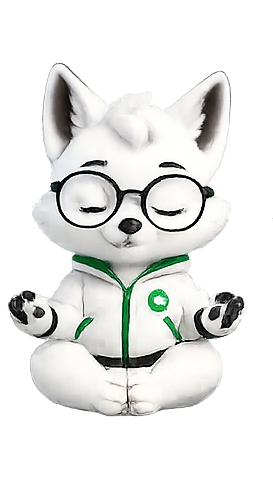
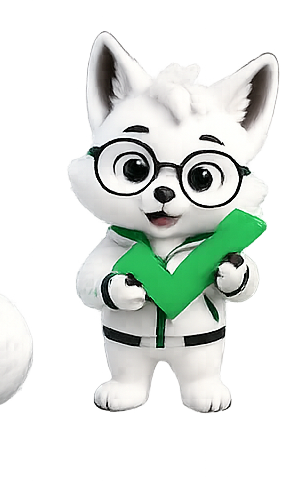
fix(front): correct Viz pose-to-image mapping
- Renamed: curious→checkmark (holds green ✅), checkmark→meditating (eyes closed),
  meditating→error (back view fox)
- Added VIZ_MESSAGES central map for all pose messages
- EmptyState: sitting pose for no results (sad fox)
- ErrorState: error pose (back view) for connection failures
- LoadingSpinner/SearchPage use VIZ_MESSAGES constants

diff --git a/front/src/components/Common/Viz.tsx b/front/src/components/Common/Viz.tsx
@@ -2,16 +2,16 @@ import { Box, Image } from '@chakra-ui/react';
 import { keyframes } from '@emotion/react';
 
 export type VizPose =
-  | 'greeting'    // Saludo — inicio de sesión
-  | 'thinking'    // Pensando — comparando empresas
-  | 'laptop'      // Con laptop — recomendación IA
-  | 'searching'   // Buscando — lupa
-  | 'celebrating' // Celebrando — registro exitoso
-  | 'waving'      // Saludando — bienvenida
-  | 'sitting'     // Sentado — sin proyectos
-  | 'curious'     // Curioso — sin resultados
-  | 'checkmark'   // Check — proceso completado
-  | 'meditating'; // Meditando — carga
+  | 'greeting'    // 🦊 Inicio de sesión — saluda con la pata
+  | 'celebrating' // 🎉 Registro exitoso — salta de alegría
+  | 'searching'   // 🔍 Buscando — lupa y guiño
+  | 'laptop'      // 💻 Laptop/tablet — analiza documentos
+  | 'thinking'    // 🤔 Comparando — dedo en el mentón
+  | 'sitting'     // 😕 Sin resultados / sin proyectos — sentado triste
+  | 'waving'      // 👋 Saludando / señalando
+  | 'checkmark'   // ✅ Proceso completado — sostiene check verde
+  | 'meditating'  // 🧘 Carga general — ojos cerrados, meditando
+  | 'error';      // 😅 Error de conexión — de espaldas
 
 const float = keyframes`
   0%, 100% { transform: translateY(0px) }
@@ -31,15 +31,15 @@ const wiggle = keyframes`
 
 const POSE_ANIMATION: Record<VizPose, string> = {
   greeting:    `${wiggle} 2s ease-in-out infinite`,
-  thinking:    `${pulse} 3s ease-in-out infinite`,
-  laptop:      `${float} 3s ease-in-out infinite`,
-  searching:   `${wiggle} 1.5s ease-in-out infinite`,
   celebrating: `${wiggle} 0.8s ease-in-out infinite`,
-  waving:      `${wiggle} 2s ease-in-out infinite`,
+  searching:   `${wiggle} 1.5s ease-in-out infinite`,
+  laptop:      `${float} 3s ease-in-out infinite`,
+  thinking:    `${pulse} 3s ease-in-out infinite`,
   sitting:     `${float} 4s ease-in-out infinite`,
-  curious:     `${pulse} 2.5s ease-in-out infinite`,
+  waving:      `${wiggle} 2s ease-in-out infinite`,
   checkmark:   `${pulse} 2s ease-in-out infinite`,
   meditating:  `${float} 3.5s ease-in-out infinite`,
+  error:       `${float} 4s ease-in-out infinite`,
 };
 
 interface VizProps {

diff --git a/front/src/components/Common/vizMessages.ts b/front/src/components/Common/vizMessages.ts
@@ -1,0 +1,14 @@
+import { VizPose } from './Viz';
+
+export const VIZ_MESSAGES: Record<VizPose, string> = {
+  greeting:    '¡Qué gusto verte de nuevo!',
+  celebrating: '¡Bienvenido! Ya eres parte de ContrataIA.',
+  searching:   'Buscando la mejor información para ti...',
+  laptop:      'Preparando una recomendación inteligente para tu proyecto...',
+  thinking:    'Comparando fortalezas, riesgos y oportunidades...',
+  sitting:     'No encontré coincidencias. Probemos otra búsqueda.',
+  waving:      'Tu primer proyecto comienza aquí.',
+  checkmark:   '¡Listo! Todo salió perfectamente.',
+  meditating:  'Las mejores decisiones toman unos segundos más.',
+  error:       'Parece que perdí la conexión. Intentémoslo de nuevo.',
+};

diff --git a/front/src/components/Common/ErrorState.tsx b/front/src/components/Common/ErrorState.tsx
@@ -1,5 +1,6 @@
 import { Box, Button, Text, VStack } from '@chakra-ui/react';
 import Viz from './Viz';
+import { VIZ_MESSAGES } from './vizMessages';
 
 interface Props {
   message?: string;
@@ -7,13 +8,13 @@ interface Props {
 }
 
 export default function ErrorState({
-  message = 'Parece que perdí la conexión por un momento. Intentémoslo de nuevo.',
+  message = VIZ_MESSAGES.error,
   onRetry,
 }: Props) {
   return (
     <Box textAlign="center" py={12} px={8} bg="white" borderRadius="lg" borderWidth="1px" borderColor="red.50">
       <VStack spacing={3}>
-        <Viz pose="waving" size={100} />
+        <Viz pose="error" size={100} />
         <Text fontWeight="600" color="gray.700" fontSize="lg">Error de conexión</Text>
         <Text color="gray.500" fontSize="sm" maxW="340px" fontStyle="italic">{message}</Text>
         {onRetry && (

diff --git a/front/src/pages/public/ObrasBusqueda.tsx b/front/src/pages/public/ObrasBusqueda.tsx
@@ -13,6 +13,7 @@ import SkeletonCard from '@/components/Common/SkeletonCard';
 import EmptyState from '@/components/Common/EmptyState';
 import ErrorState from '@/components/Common/ErrorState';
 import VizMessage from '@/components/Common/VizMessage';
+import { VIZ_MESSAGES } from '@/components/Common/vizMessages';
 import { useObras } from '@/components/hooks/useObras';
 import { DISTRICTS, RUBROS, OBRA_STATUS } from '@/utils/constants';
 import { formatCurrency } from '@/utils/helpers';
@@ -99,7 +100,7 @@ export default function ObrasBusqueda() {
 
             {isLoading && (
               <Flex direction="column" align="center" py={8}>
-                <VizMessage pose="searching" message="Buscando la mejor información para ti..." size={100} />
+                <VizMessage pose="searching" message={VIZ_MESSAGES.searching} size={100} />
               </Flex>
             )}
 
@@ -111,7 +112,7 @@ export default function ObrasBusqueda() {
               <EmptyState
                 title="No encontré coincidencias"
                 description="Probemos otra búsqueda o cambia los filtros."
-                vizPose="curious"
+                vizPose="sitting"
               />
             )}
 

diff --git a/front/src/components/Common/LoadingSpinner.tsx b/front/src/components/Common/LoadingSpinner.tsx
@@ -1,12 +1,13 @@
 import { Flex } from '@chakra-ui/react';
 import VizMessage from './VizMessage';
+import { VIZ_MESSAGES } from './vizMessages';
 
 interface Props {
   label?: string;
   fullScreen?: boolean;
 }
 
-export default function LoadingSpinner({ label = 'Las mejores decisiones toman unos segundos más.', fullScreen }: Props) {
+export default function LoadingSpinner({ label = VIZ_MESSAGES.meditating, fullScreen }: Props) {
   return (
     <Flex
       direction="column"

diff --git a/front/src/components/Common/EmptyState.tsx b/front/src/components/Common/EmptyState.tsx
@@ -11,7 +11,7 @@ interface Props {
   vizPose?: VizPose;
 }
 
-export default function EmptyState({ title, description, ctaLabel, onCta, vizPose = 'curious' }: Props) {
+export default function EmptyState({ title, description, ctaLabel, onCta, vizPose = 'sitting' }: Props) {
   return (
     <Box textAlign="center" py={12} px={8} bg="white" borderRadius="lg" borderWidth="1px" borderColor="gray.100">
       <VStack spacing={3}>